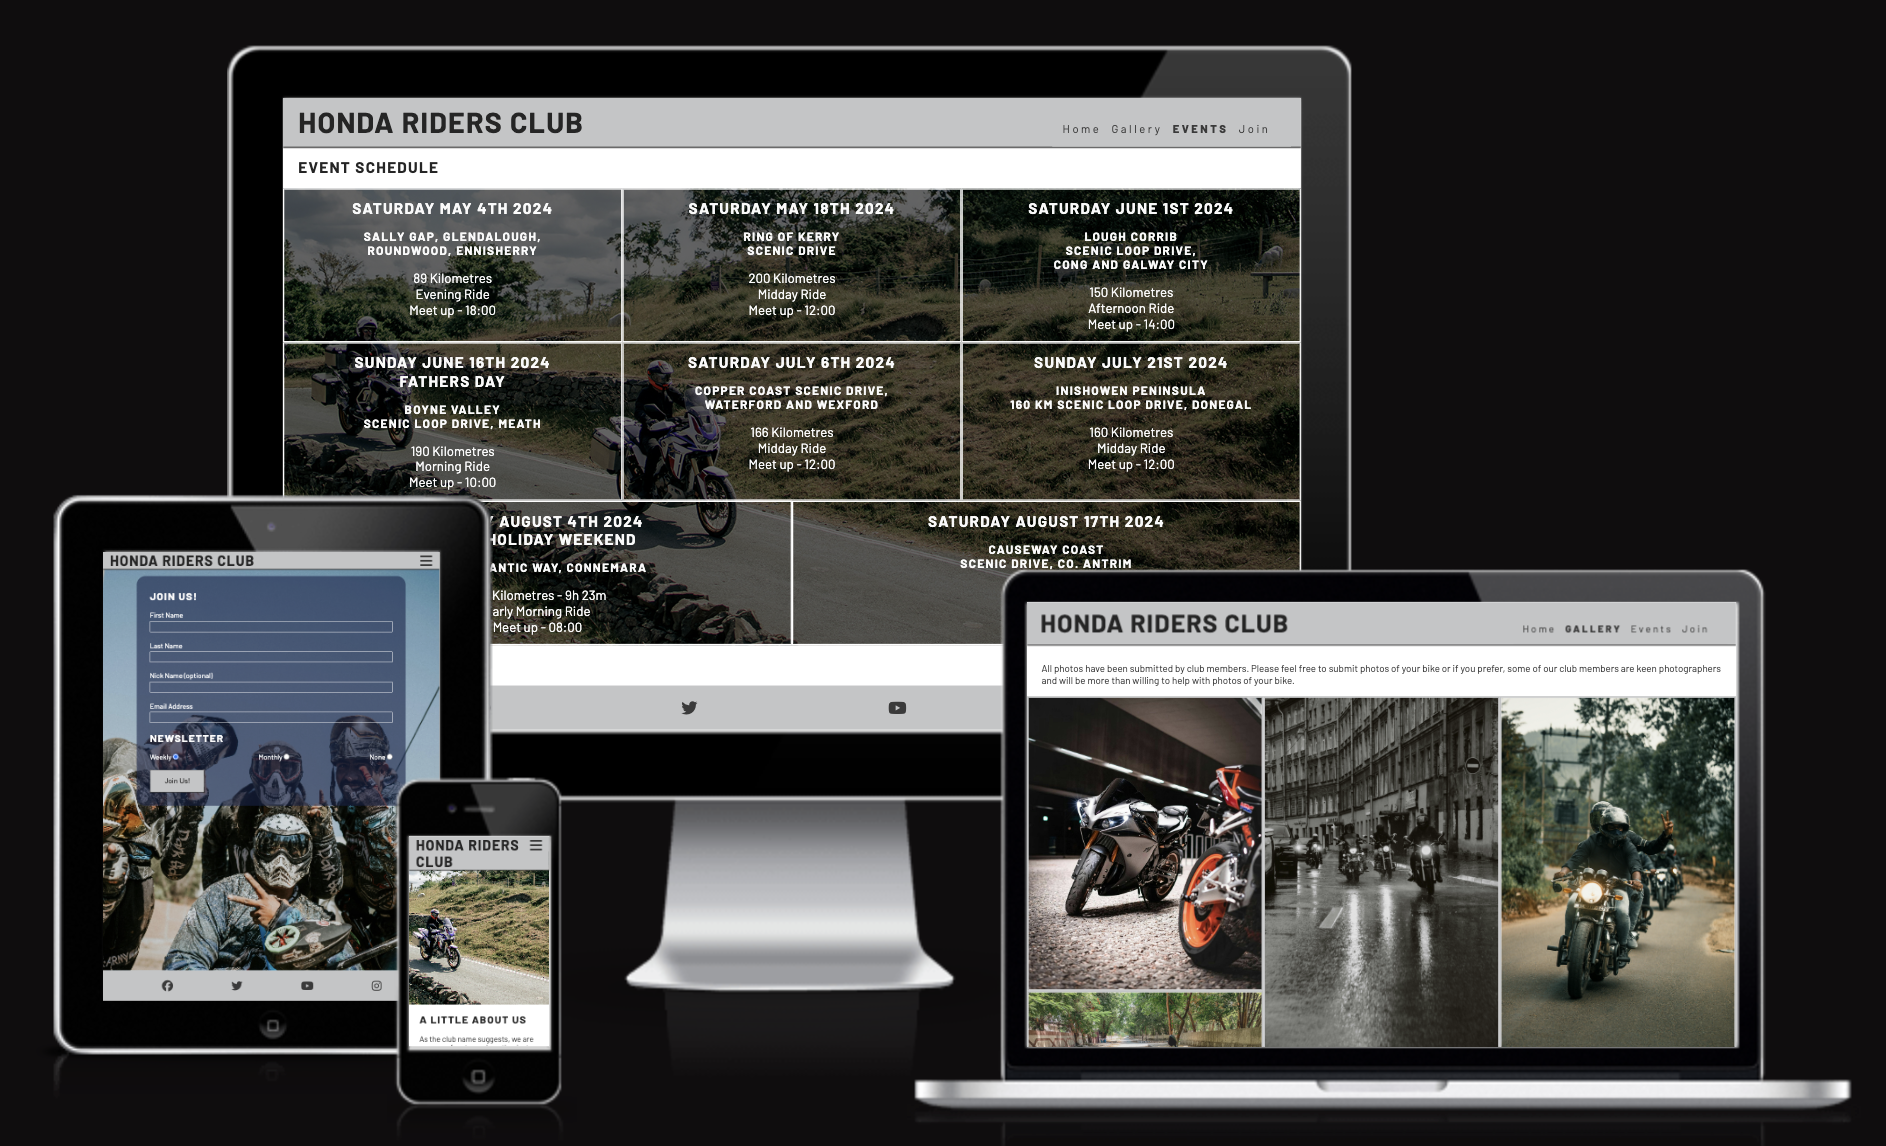
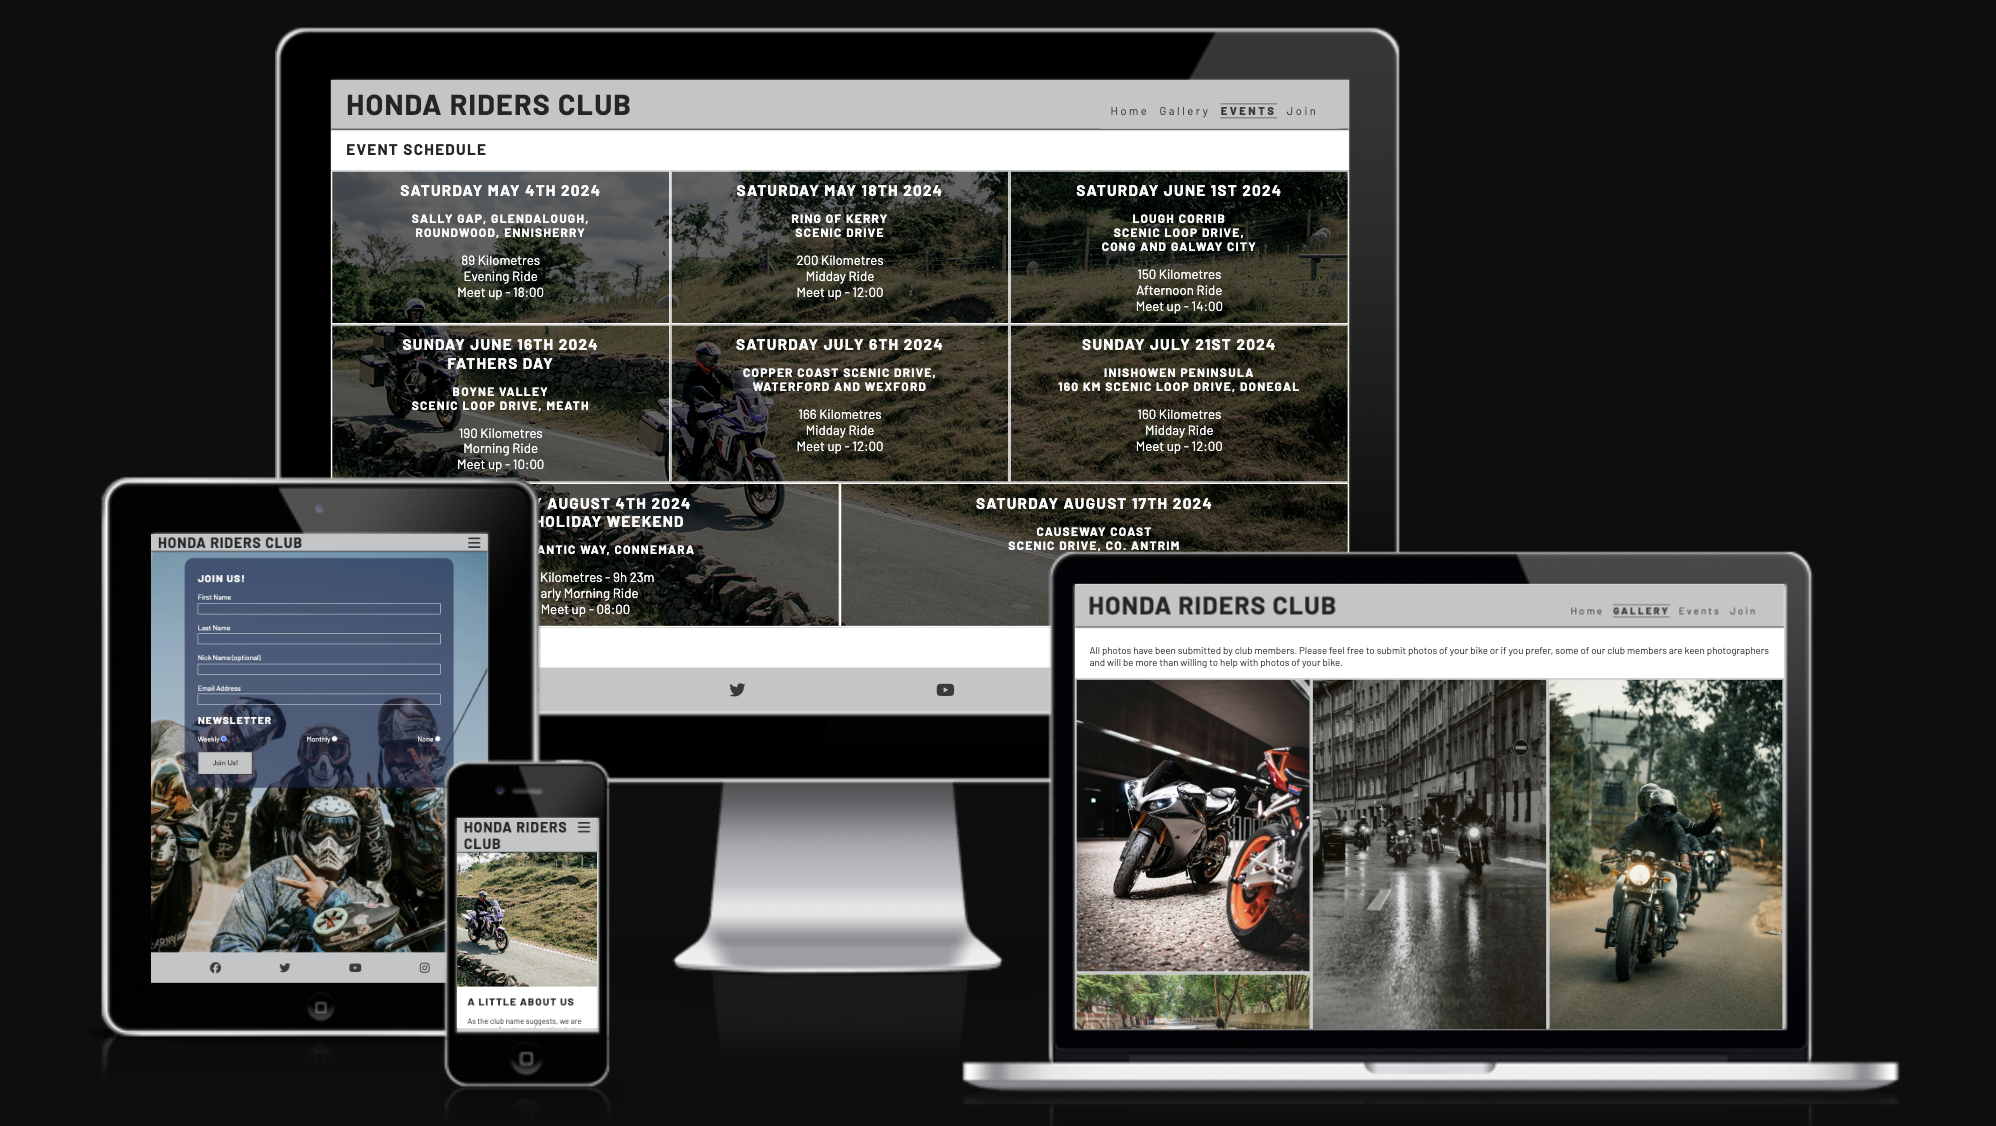
added more information to README

diff --git a/README.md b/README.md
@@ -10,12 +10,11 @@ Honda Riders Club will be useful for members to see and plan for upcoming events
 
 The site is fully responsive and can be viewed on desktop, laptop, tablet/iPad, or mobile phone.
 
-### Existing Geatures
-
 - __Navigation Bar__
 
   - Featured on all pages, the fully responsive nav bar includes links to the Logo, Home page, Gallery, Event page and Join Us page and is identical on each page to allow for easy navigation.
   - This allows the user to easily navigate from page to page, across all devices, without having to revert back to the previous page via the ‘back’ button. 
+  - The current page is easily identified on the Navigation Bar as it appears as capitalised, bold font with 1px rule above and below.
 
 ![Nav Bar](media/nav_bar.png)
 
